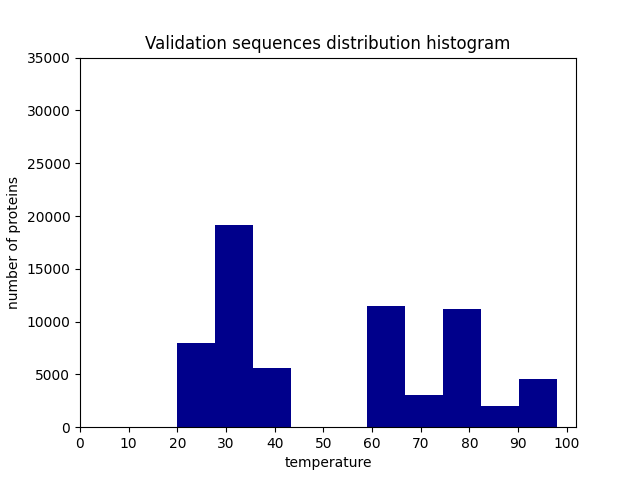
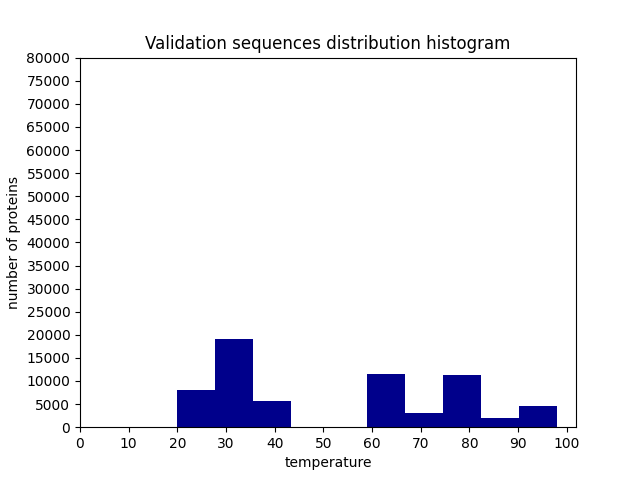
Changed y axis to wrap the maximum value of the training set.

diff --git a/scripts/003/003_plot_histogram.py b/scripts/003/003_plot_histogram.py
@@ -41,7 +41,7 @@ file_handle.close()
 
 n, bins, patches = plt.hist(x=temperatures, bins=10, color='#00008b')
 plt.xticks(range(0, 110, 10))
-plt.yticks(range(0, 80000, 5000))
+plt.yticks(range(0, 85000, 5000))
 plt.xlabel('temperature')
 plt.ylabel('number of proteins')
 
